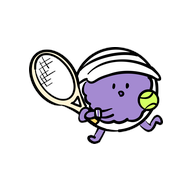
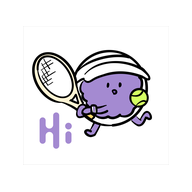
홈화면 추가 아이콘을 Hi_health_home.png로 변경 및 레벨 아이콘 개선

Changed region(s): [[0.125, 0.2188, 0.875, 0.7812]]

diff --git a/index.html b/index.html
@@ -486,7 +486,7 @@
       background: linear-gradient(135deg, #F3E8FF 0%, #EDE9FE 100%);
       display: flex; align-items: center; justify-content: center;
     }
-    .level-icon-large { font-size: 42px; line-height: 1; display: flex; align-items: center; }
+    .level-icon-large { font-size: 52px; line-height: 1; display: flex; align-items: center; }
     .level-title-row { display: flex; align-items: baseline; gap: 5px; }
     .level-name { font-size: 13px; font-weight: 800; color: var(--text); }
     .level-num { font-size: 11px; color: var(--text-secondary); font-weight: 600; }
@@ -2385,15 +2385,87 @@ const LEVELS = [
       </circle>
     </svg>` },
   { lv:2, name:'초보자', min:200,  max:499,  color:'#84CC16',
-    icon:`<svg viewBox="0 0 40 40" fill="none" xmlns="http://www.w3.org/2000/svg" width="1em" height="1em" style="vertical-align:middle"><path d="M20 32V17" stroke="#65A30D" stroke-width="2.5" stroke-linecap="round"/><path d="M20 27C19 26 11 23 12 14C12 14 21 16 20 27Z" fill="#84CC16"/><path d="M20 24C21 23 29 19 27 10C27 10 19 13 20 24Z" fill="#A3E635"/><path d="M20 20C20 19 18 15 18 9C22 10 20 16 20 20Z" fill="#BEF264"/></svg>` },
+    icon:`<svg viewBox="0 0 40 40" fill="none" xmlns="http://www.w3.org/2000/svg" width="1em" height="1em" style="vertical-align:middle">
+      <g><animateTransform attributeName="transform" type="rotate" values="0 20 20;360 20 20" dur="10s" repeatCount="indefinite"/>
+        <ellipse cx="20" cy="5.5" rx="2.2" ry="5" fill="#FDE68A"/>
+        <ellipse cx="20" cy="5.5" rx="2.2" ry="5" fill="#FCD34D" transform="rotate(45 20 20)"/>
+        <ellipse cx="20" cy="5.5" rx="2.2" ry="5" fill="#FDE68A" transform="rotate(90 20 20)"/>
+        <ellipse cx="20" cy="5.5" rx="2.2" ry="5" fill="#FCD34D" transform="rotate(135 20 20)"/>
+        <ellipse cx="20" cy="5.5" rx="2.2" ry="5" fill="#FDE68A" transform="rotate(180 20 20)"/>
+        <ellipse cx="20" cy="5.5" rx="2.2" ry="5" fill="#FCD34D" transform="rotate(225 20 20)"/>
+        <ellipse cx="20" cy="5.5" rx="2.2" ry="5" fill="#FDE68A" transform="rotate(270 20 20)"/>
+        <ellipse cx="20" cy="5.5" rx="2.2" ry="5" fill="#FCD34D" transform="rotate(315 20 20)"/>
+      </g>
+      <circle cx="20" cy="20" r="9" fill="#F97316"/>
+      <circle cx="20" cy="20" r="7.5" fill="#FB923C"/>
+      <circle cx="20" cy="20" r="5.5" fill="#FDBA74"/>
+    </svg>` },
   { lv:3, name:'활동가', min:500,  max:999,  color:'#EC4899',
-    icon:`<svg viewBox="0 0 40 40" fill="none" xmlns="http://www.w3.org/2000/svg" width="1em" height="1em" style="vertical-align:middle"><ellipse cx="20" cy="11" rx="4" ry="7" fill="#FBCFE8"/><ellipse cx="20" cy="11" rx="4" ry="7" fill="#EC4899" transform="rotate(72 20 20)"/><ellipse cx="20" cy="11" rx="4" ry="7" fill="#FBCFE8" transform="rotate(144 20 20)"/><ellipse cx="20" cy="11" rx="4" ry="7" fill="#EC4899" transform="rotate(216 20 20)"/><ellipse cx="20" cy="11" rx="4" ry="7" fill="#FBCFE8" transform="rotate(288 20 20)"/><circle cx="20" cy="20" r="5" fill="#FDE68A"/><circle cx="20" cy="20" r="3" fill="#F59E0B"/></svg>` },
+    icon:`<svg viewBox="0 0 40 40" fill="none" xmlns="http://www.w3.org/2000/svg" width="1em" height="1em" style="vertical-align:middle">
+      <ellipse cx="20" cy="9" rx="4.5" ry="8" fill="#FBCFE8" transform="rotate(0 20 20)"/>
+      <ellipse cx="20" cy="9" rx="4.5" ry="8" fill="#F9A8D4" transform="rotate(72 20 20)"/>
+      <ellipse cx="20" cy="9" rx="4.5" ry="8" fill="#FBCFE8" transform="rotate(144 20 20)"/>
+      <ellipse cx="20" cy="9" rx="4.5" ry="8" fill="#F9A8D4" transform="rotate(216 20 20)"/>
+      <ellipse cx="20" cy="9" rx="4.5" ry="8" fill="#FBCFE8" transform="rotate(288 20 20)"/>
+      <ellipse cx="20" cy="9" rx="2" ry="5" fill="#EC4899" opacity="0.35" transform="rotate(0 20 20)"/>
+      <ellipse cx="20" cy="9" rx="2" ry="5" fill="#EC4899" opacity="0.35" transform="rotate(72 20 20)"/>
+      <ellipse cx="20" cy="9" rx="2" ry="5" fill="#EC4899" opacity="0.35" transform="rotate(144 20 20)"/>
+      <ellipse cx="20" cy="9" rx="2" ry="5" fill="#EC4899" opacity="0.35" transform="rotate(216 20 20)"/>
+      <ellipse cx="20" cy="9" rx="2" ry="5" fill="#EC4899" opacity="0.35" transform="rotate(288 20 20)"/>
+      <circle cx="20" cy="20" r="6" fill="#EC4899"/>
+      <circle cx="20" cy="20" r="4.5" fill="#F472B6"/>
+      <circle cx="20" cy="15.5" r="1.2" fill="#FDE68A"/>
+      <circle cx="24.3" cy="18.6" r="1.2" fill="#FDE68A"/>
+      <circle cx="22.6" cy="23.6" r="1.2" fill="#FDE68A"/>
+      <circle cx="17.4" cy="23.6" r="1.2" fill="#FDE68A"/>
+      <circle cx="15.7" cy="18.6" r="1.2" fill="#FDE68A"/>
+    </svg>` },
   { lv:4, name:'도전자', min:1000, max:1999, color:'#F97316',
-    icon:`<svg viewBox="0 0 40 40" fill="none" xmlns="http://www.w3.org/2000/svg" width="1em" height="1em" style="vertical-align:middle"><path d="M20 33C13 33 9 28 9 22C9 16 12 11 16 8C15 14 18 16 19 16C19 11 22 7 25 7C25 15 28 17 28 22C28 15 31 13 31 13C32 19 30 28 20 33Z" fill="#F97316"/><path d="M20 31C16 31 14 27 14 24C14 21 16 19 18 19C18 22 19 24 20 24C21 24 22 22 22 19C24 20 26 23 26 26C26 29 23 31 20 31Z" fill="#FED7AA"/></svg>` },
+    icon:`<svg viewBox="0 0 40 40" fill="none" xmlns="http://www.w3.org/2000/svg" width="1em" height="1em" style="vertical-align:middle">
+      <path d="M20 7C17 12 10 17 10 23C10 29.8 14.5 34 20 34C25.5 34 30 29.8 30 23C30 17 23 12 20 7Z" fill="#F97316"/>
+      <path d="M20 14C18 17.5 14 20 14 24.5C14 28.5 16.7 32 20 32C23.3 32 26 28.5 26 24.5C26 20 22 17.5 20 14Z" fill="#FB923C">
+        <animateTransform attributeName="transform" type="translate" values="0,0;0,-1.5;0,0.5;0,0" dur="1.8s" repeatCount="indefinite"/>
+      </path>
+      <path d="M20 20C19 21.5 17 23.5 17 26C17 28.5 18.3 30.5 20 30.5C21.7 30.5 23 28.5 23 26C23 23.5 21 21.5 20 20Z" fill="#FEF3C7">
+        <animateTransform attributeName="transform" type="translate" values="0,0;0,-2;0,1;0,0" dur="1.3s" repeatCount="indefinite"/>
+      </path>
+    </svg>` },
   { lv:5, name:'챔피언', min:2000, max:3999, color:'#3B82F6',
-    icon:`<svg viewBox="0 0 40 40" fill="none" xmlns="http://www.w3.org/2000/svg" width="1em" height="1em" style="vertical-align:middle"><rect x="18" y="28" width="4" height="5" rx="1" fill="#92400E"/><polygon points="20,9 29,24 11,24" fill="#60A5FA"/><polygon points="20,15 30,30 10,30" fill="#3B82F6"/><circle cx="20" cy="9" r="2.5" fill="#FCD34D"/></svg>` },
+    icon:`<svg viewBox="0 0 40 40" fill="none" xmlns="http://www.w3.org/2000/svg" width="1em" height="1em" style="vertical-align:middle">
+      <rect x="11" y="32" width="18" height="3.5" rx="1.75" fill="#1D4ED8"/>
+      <path d="M17.5 28.5H22.5V32H17.5Z" fill="#2563EB"/>
+      <path d="M10.5 9.5H29.5V21C29.5 25.7 25.2 28.5 20 28.5C14.8 28.5 10.5 25.7 10.5 21V9.5Z" fill="#3B82F6"/>
+      <path d="M14 9.5H26V20C26 23.3 23.3 25.5 20 25.5C16.7 25.5 14 23.3 14 20V9.5Z" fill="#60A5FA"/>
+      <path d="M10.5 12H7.5C5.6 12 4 13.6 4 15.5C4 17.4 5.6 19 7.5 19H10.5" stroke="#2563EB" stroke-width="2.5" fill="none" stroke-linecap="round"/>
+      <path d="M29.5 12H32.5C34.4 12 36 13.6 36 15.5C36 17.4 34.4 19 32.5 19H29.5" stroke="#2563EB" stroke-width="2.5" fill="none" stroke-linecap="round"/>
+      <path d="M20 12L21.5 16.5H26.5L22.5 19.3L24 23.8L20 21L16 23.8L17.5 19.3L13.5 16.5H18.5Z" fill="#FCD34D"/>
+    </svg>` },
   { lv:6, name:'레전드', min:4000, max:Infinity, color:'#F59E0B',
-    icon:`<svg viewBox="0 0 40 40" fill="none" xmlns="http://www.w3.org/2000/svg" width="1em" height="1em" style="vertical-align:middle"><path d="M20 7L22.9 16.4H32.8L24.9 22.6L27.8 32L20 25.8L12.2 32L15.1 22.6L7.2 16.4H17.1Z" fill="#F59E0B"/><path d="M20 11L22.2 17.5H29L23.4 21.8L25.6 28.3L20 24L14.4 28.3L16.6 21.8L11 17.5H17.8Z" fill="#FDE047"/><circle cx="20" cy="20" r="3.5" fill="white" opacity="0.5"/></svg>` },
+    icon:`<svg viewBox="0 0 40 40" fill="none" xmlns="http://www.w3.org/2000/svg" width="1em" height="1em" style="vertical-align:middle">
+      <path d="M5 27L8 14L14.5 22L20 8L25.5 22L32 14L35 27Z" fill="#F59E0B"/>
+      <rect x="5" y="27" width="30" height="5" rx="2.5" fill="#D97706"/>
+      <rect x="5" y="27" width="30" height="2" rx="1" fill="#FCD34D" opacity="0.5"/>
+      <circle cx="12.5" cy="29.5" r="2.5" fill="#EF4444"/>
+      <circle cx="12.5" cy="28.7" r="1" fill="#FCA5A5" opacity="0.7"/>
+      <circle cx="20" cy="29.5" r="3" fill="#7C3AED"/>
+      <circle cx="20" cy="28.5" r="1.3" fill="#C4B5FD" opacity="0.7"/>
+      <circle cx="27.5" cy="29.5" r="2.5" fill="#10B981"/>
+      <circle cx="27.5" cy="28.7" r="1" fill="#6EE7B7" opacity="0.7"/>
+      <polygon points="20,8 21.5,12 20,13.5 18.5,12" fill="#A78BFA"/>
+      <polygon points="20,8 21.2,11.5 20,12.5 18.8,11.5" fill="#EDE9FE" opacity="0.8"/>
+      <g opacity="0"><animate attributeName="opacity" values="0;1;0" dur="2.5s" begin="0s" repeatCount="indefinite"/>
+        <line x1="3" y1="9" x2="3" y2="13" stroke="#FCD34D" stroke-width="1.5" stroke-linecap="round"/>
+        <line x1="1" y1="11" x2="5" y2="11" stroke="#FCD34D" stroke-width="1.5" stroke-linecap="round"/>
+      </g>
+      <g opacity="0"><animate attributeName="opacity" values="0;1;0" dur="2.5s" begin="0.8s" repeatCount="indefinite"/>
+        <line x1="37" y1="7" x2="37" y2="11" stroke="#FCD34D" stroke-width="1.5" stroke-linecap="round"/>
+        <line x1="35" y1="9" x2="39" y2="9" stroke="#FCD34D" stroke-width="1.5" stroke-linecap="round"/>
+      </g>
+      <g opacity="0"><animate attributeName="opacity" values="0;1;0" dur="2.5s" begin="1.6s" repeatCount="indefinite"/>
+        <line x1="37" y1="19" x2="37" y2="22" stroke="#FCD34D" stroke-width="1.2" stroke-linecap="round"/>
+        <line x1="35.5" y1="20.5" x2="38.5" y2="20.5" stroke="#FCD34D" stroke-width="1.2" stroke-linecap="round"/>
+      </g>
+    </svg>` },
 ];
 
 /* ── 운동 기록 제한 ── */

diff --git a/sw.js b/sw.js
@@ -1,4 +1,4 @@
-const CACHE = 'hi-health-v7';
+const CACHE = 'hi-health-v8';
 const STATIC_ASSETS = [
   './manifest.webmanifest',
   './icons/icon.svg',
